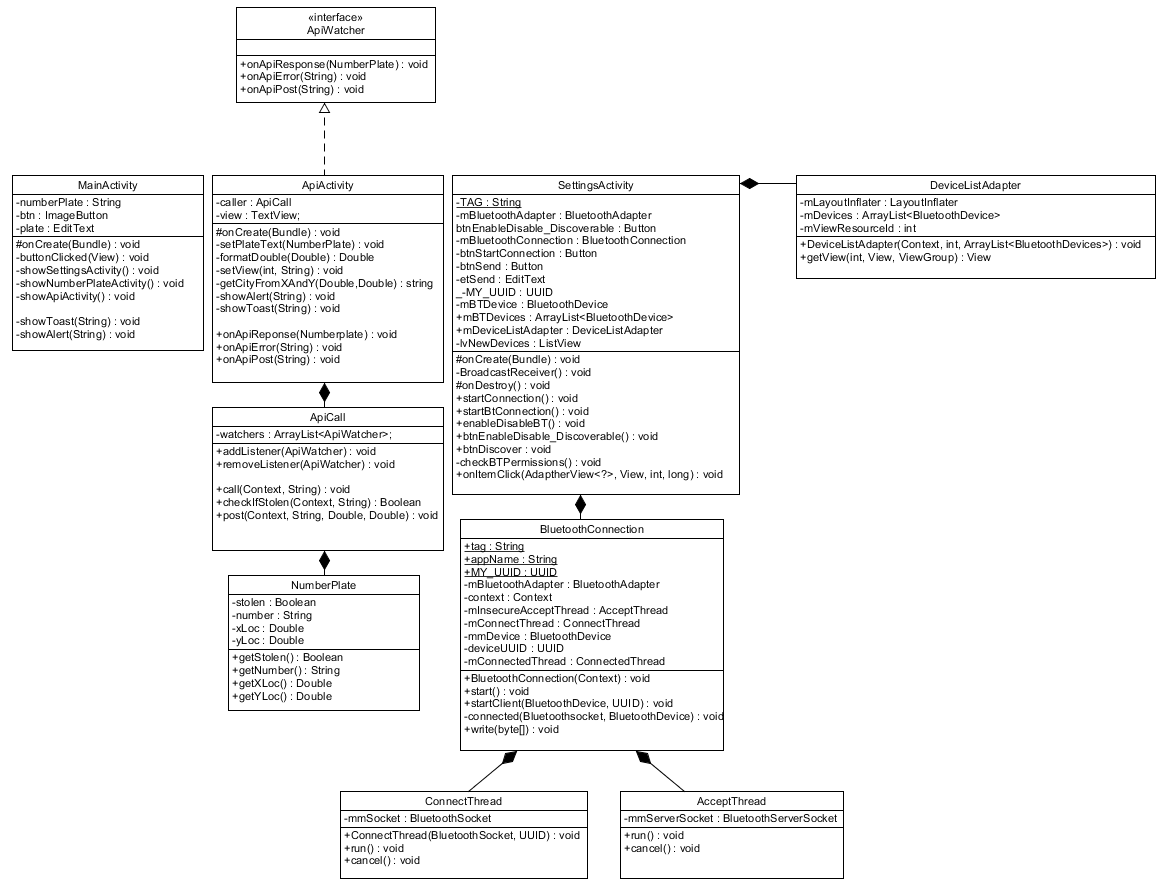
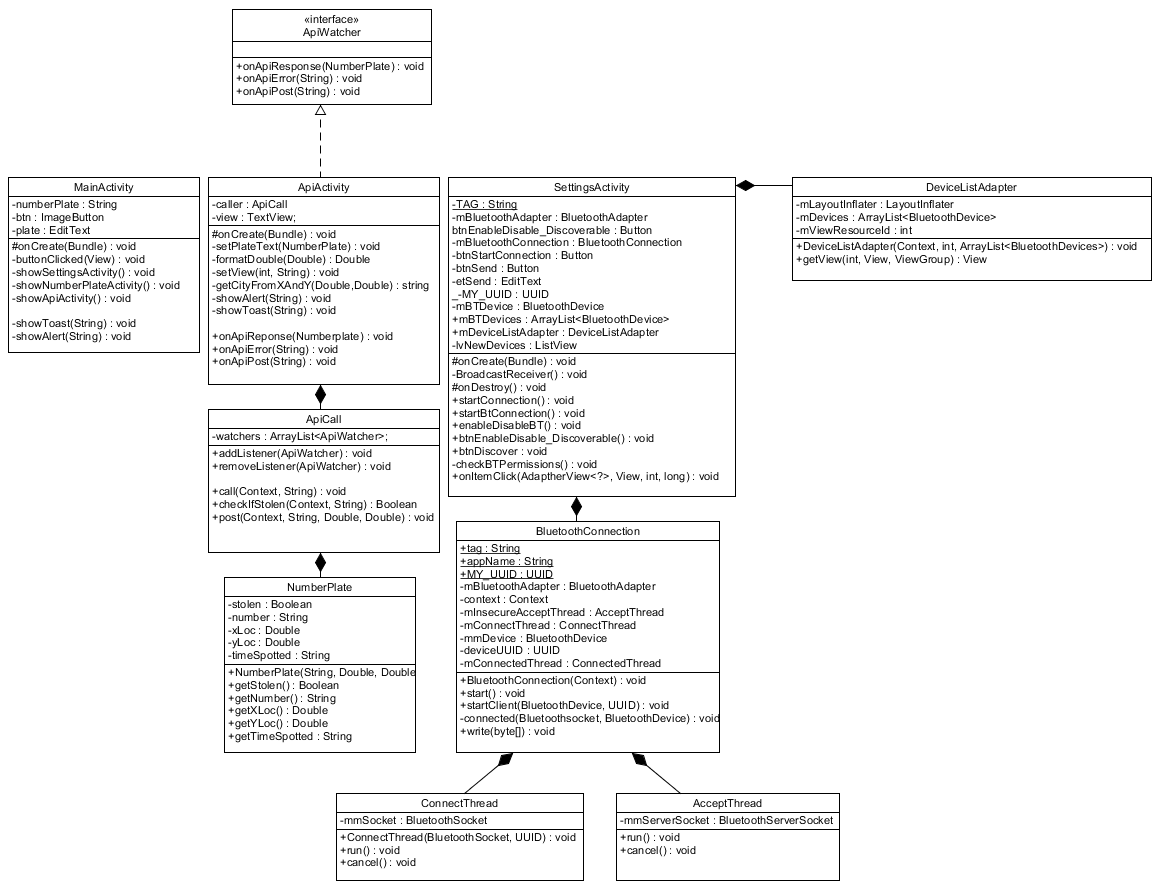
Added diagram and last seen on android

diff --git a/H3ProjektApp/app/src/main/java/com/example/h3projekt/ApiActivity.java b/H3ProjektApp/app/src/main/java/com/example/h3projekt/ApiActivity.java
@@ -39,13 +39,19 @@ public class ApiActivity extends AppCompatActivity implements ApiWatcher {
     void setPlateText(NumberPlate plate){
         setView(R.id.stolenText, "Ja");
         setView(R.id.plateText, plate.getNumber());
-        setView(R.id.lastSeenText, getCityFromXandY(formatDouble(plate.getxLoc()), formatDouble(plate.getyLoc())));
+        setView(R.id.locationView, getCityFromXandY(formatDouble(plate.getxLoc()), formatDouble(plate.getyLoc())));
+        setView(R.id.lastSeenView_, formatString(plate.getTimeSpotted()));
     }
 
     Double formatDouble(Double num){
         DecimalFormat df = new DecimalFormat("#.######");
         //ShowAlert(df.format(num));
         return Double.valueOf(df.format(num));
+    }
+
+    String formatString(String str){
+        str = str.replace('T', ' ');
+        return str;
     }
 
     TextView view;
@@ -67,7 +73,7 @@ public class ApiActivity extends AppCompatActivity implements ApiWatcher {
     public void onApiError(String message) {
         setView(R.id.numberPlateText, message);
         setView(R.id.plateText, "Error");
-        setView(R.id.lastSeenText, "Error");
+        setView(R.id.locationView, "Error");
     }
 
     @Override

diff --git a/H3ProjektApp/app/src/main/java/com/example/h3projekt/NumberPlate.java b/H3ProjektApp/app/src/main/java/com/example/h3projekt/NumberPlate.java
@@ -5,12 +5,14 @@ public class NumberPlate {
     private String number;
     private Double xLoc;
     private Double yLoc;
+    private String timeSpotted;
 
 
-    public  NumberPlate(String _number, Double _xLoc, Double _yLoc){
+    public  NumberPlate(String _number, Double _xLoc, Double _yLoc, String _timeSpotted){
         this.number = _number;
         this.xLoc = _xLoc;
         this.yLoc = _yLoc;
+        this.timeSpotted = _timeSpotted;
     }
 
     public Boolean getStolen() {
@@ -21,7 +23,6 @@ public class NumberPlate {
         return number;
     }
 
-
     public Double getxLoc() {
         return xLoc;
     }
@@ -29,4 +30,6 @@ public class NumberPlate {
     public Double getyLoc() {
         return yLoc;
     }
+
+    public String getTimeSpotted() { return timeSpotted; }
 }

diff --git a/H3ProjektApp/app/src/main/java/com/example/h3projekt/ApiCall.java b/H3ProjektApp/app/src/main/java/com/example/h3projekt/ApiCall.java
@@ -59,7 +59,7 @@ public class ApiCall {
 
                             //plate = new NumberPlate("a", response.getDouble("xLocation"), response.getDouble("yLocation"));
                             //NumberPlate plate = new NumberPlate(number, 55.67594, 12.56553);
-                            NumberPlate plate = new NumberPlate(number, obj.getDouble("xLocation"), obj.getDouble("yLocation"));
+                            NumberPlate plate = new NumberPlate(number, obj.getDouble("xLocation"), obj.getDouble("yLocation"), obj.getString("timeSpotted"));
                             //NumberPlate plate = new NumberPlate(number, 55.67594, 12.56553);
 
                             for (ApiWatcher watcher : watchers){
